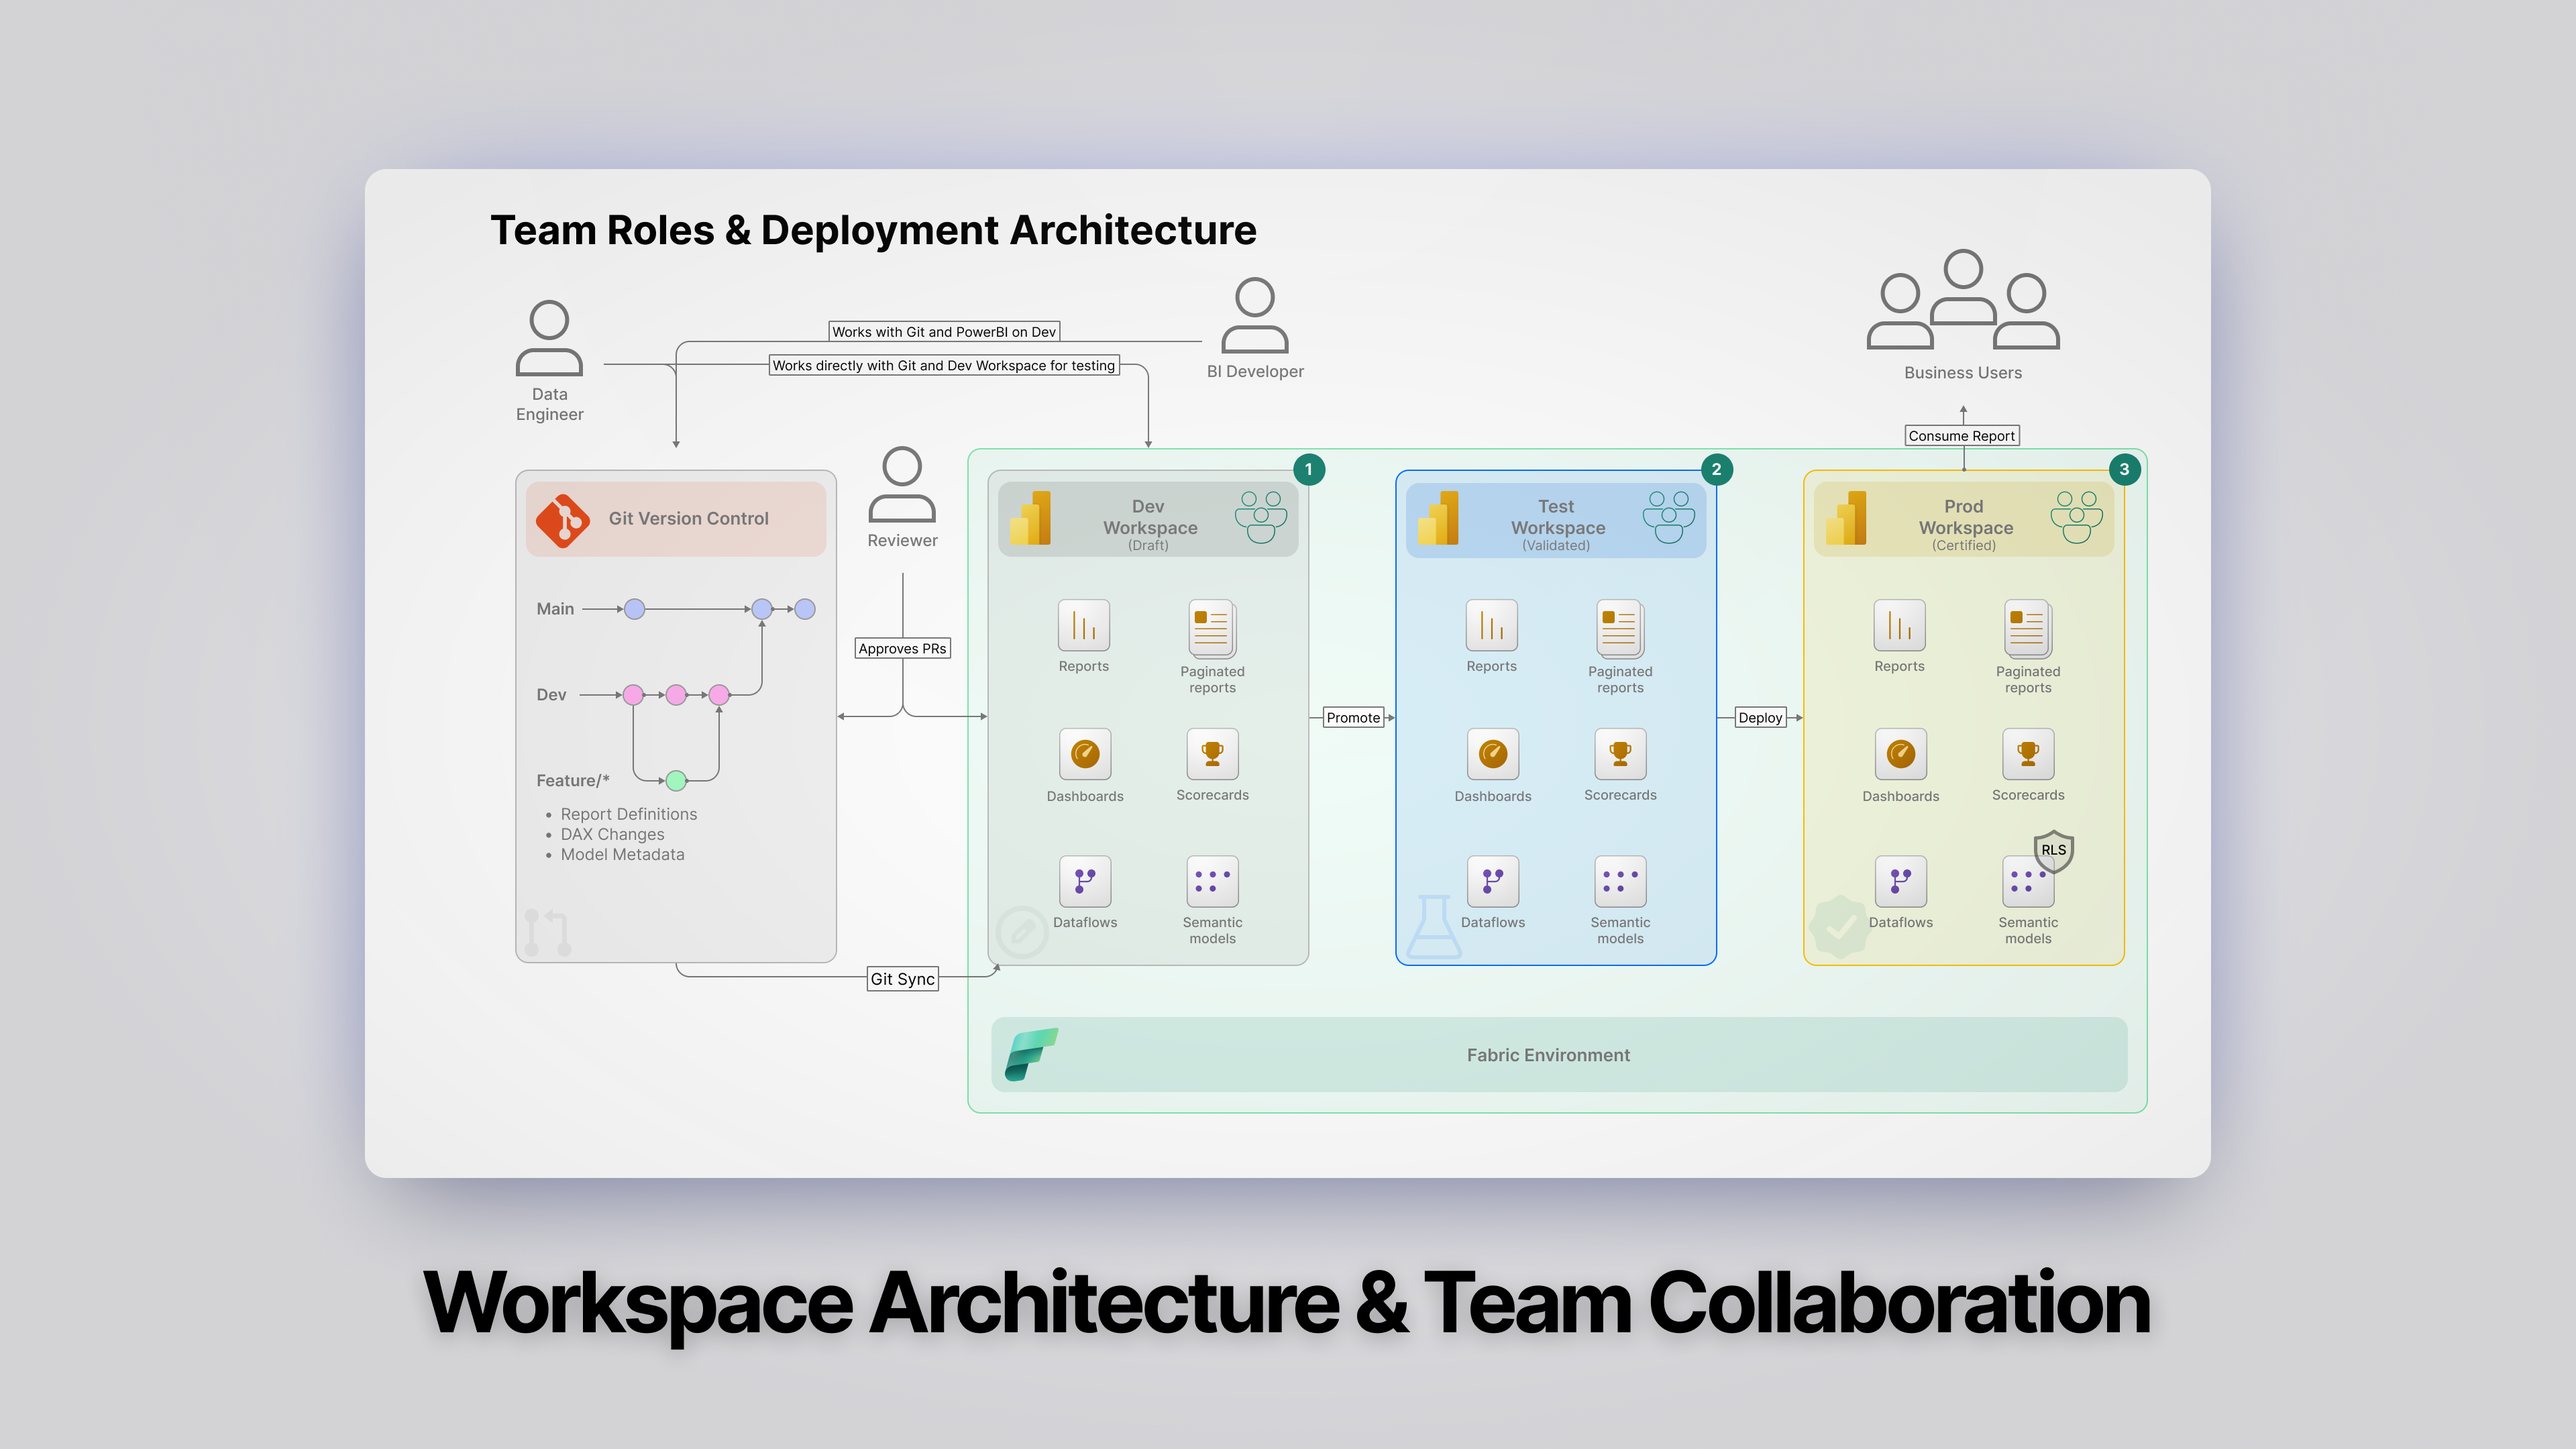
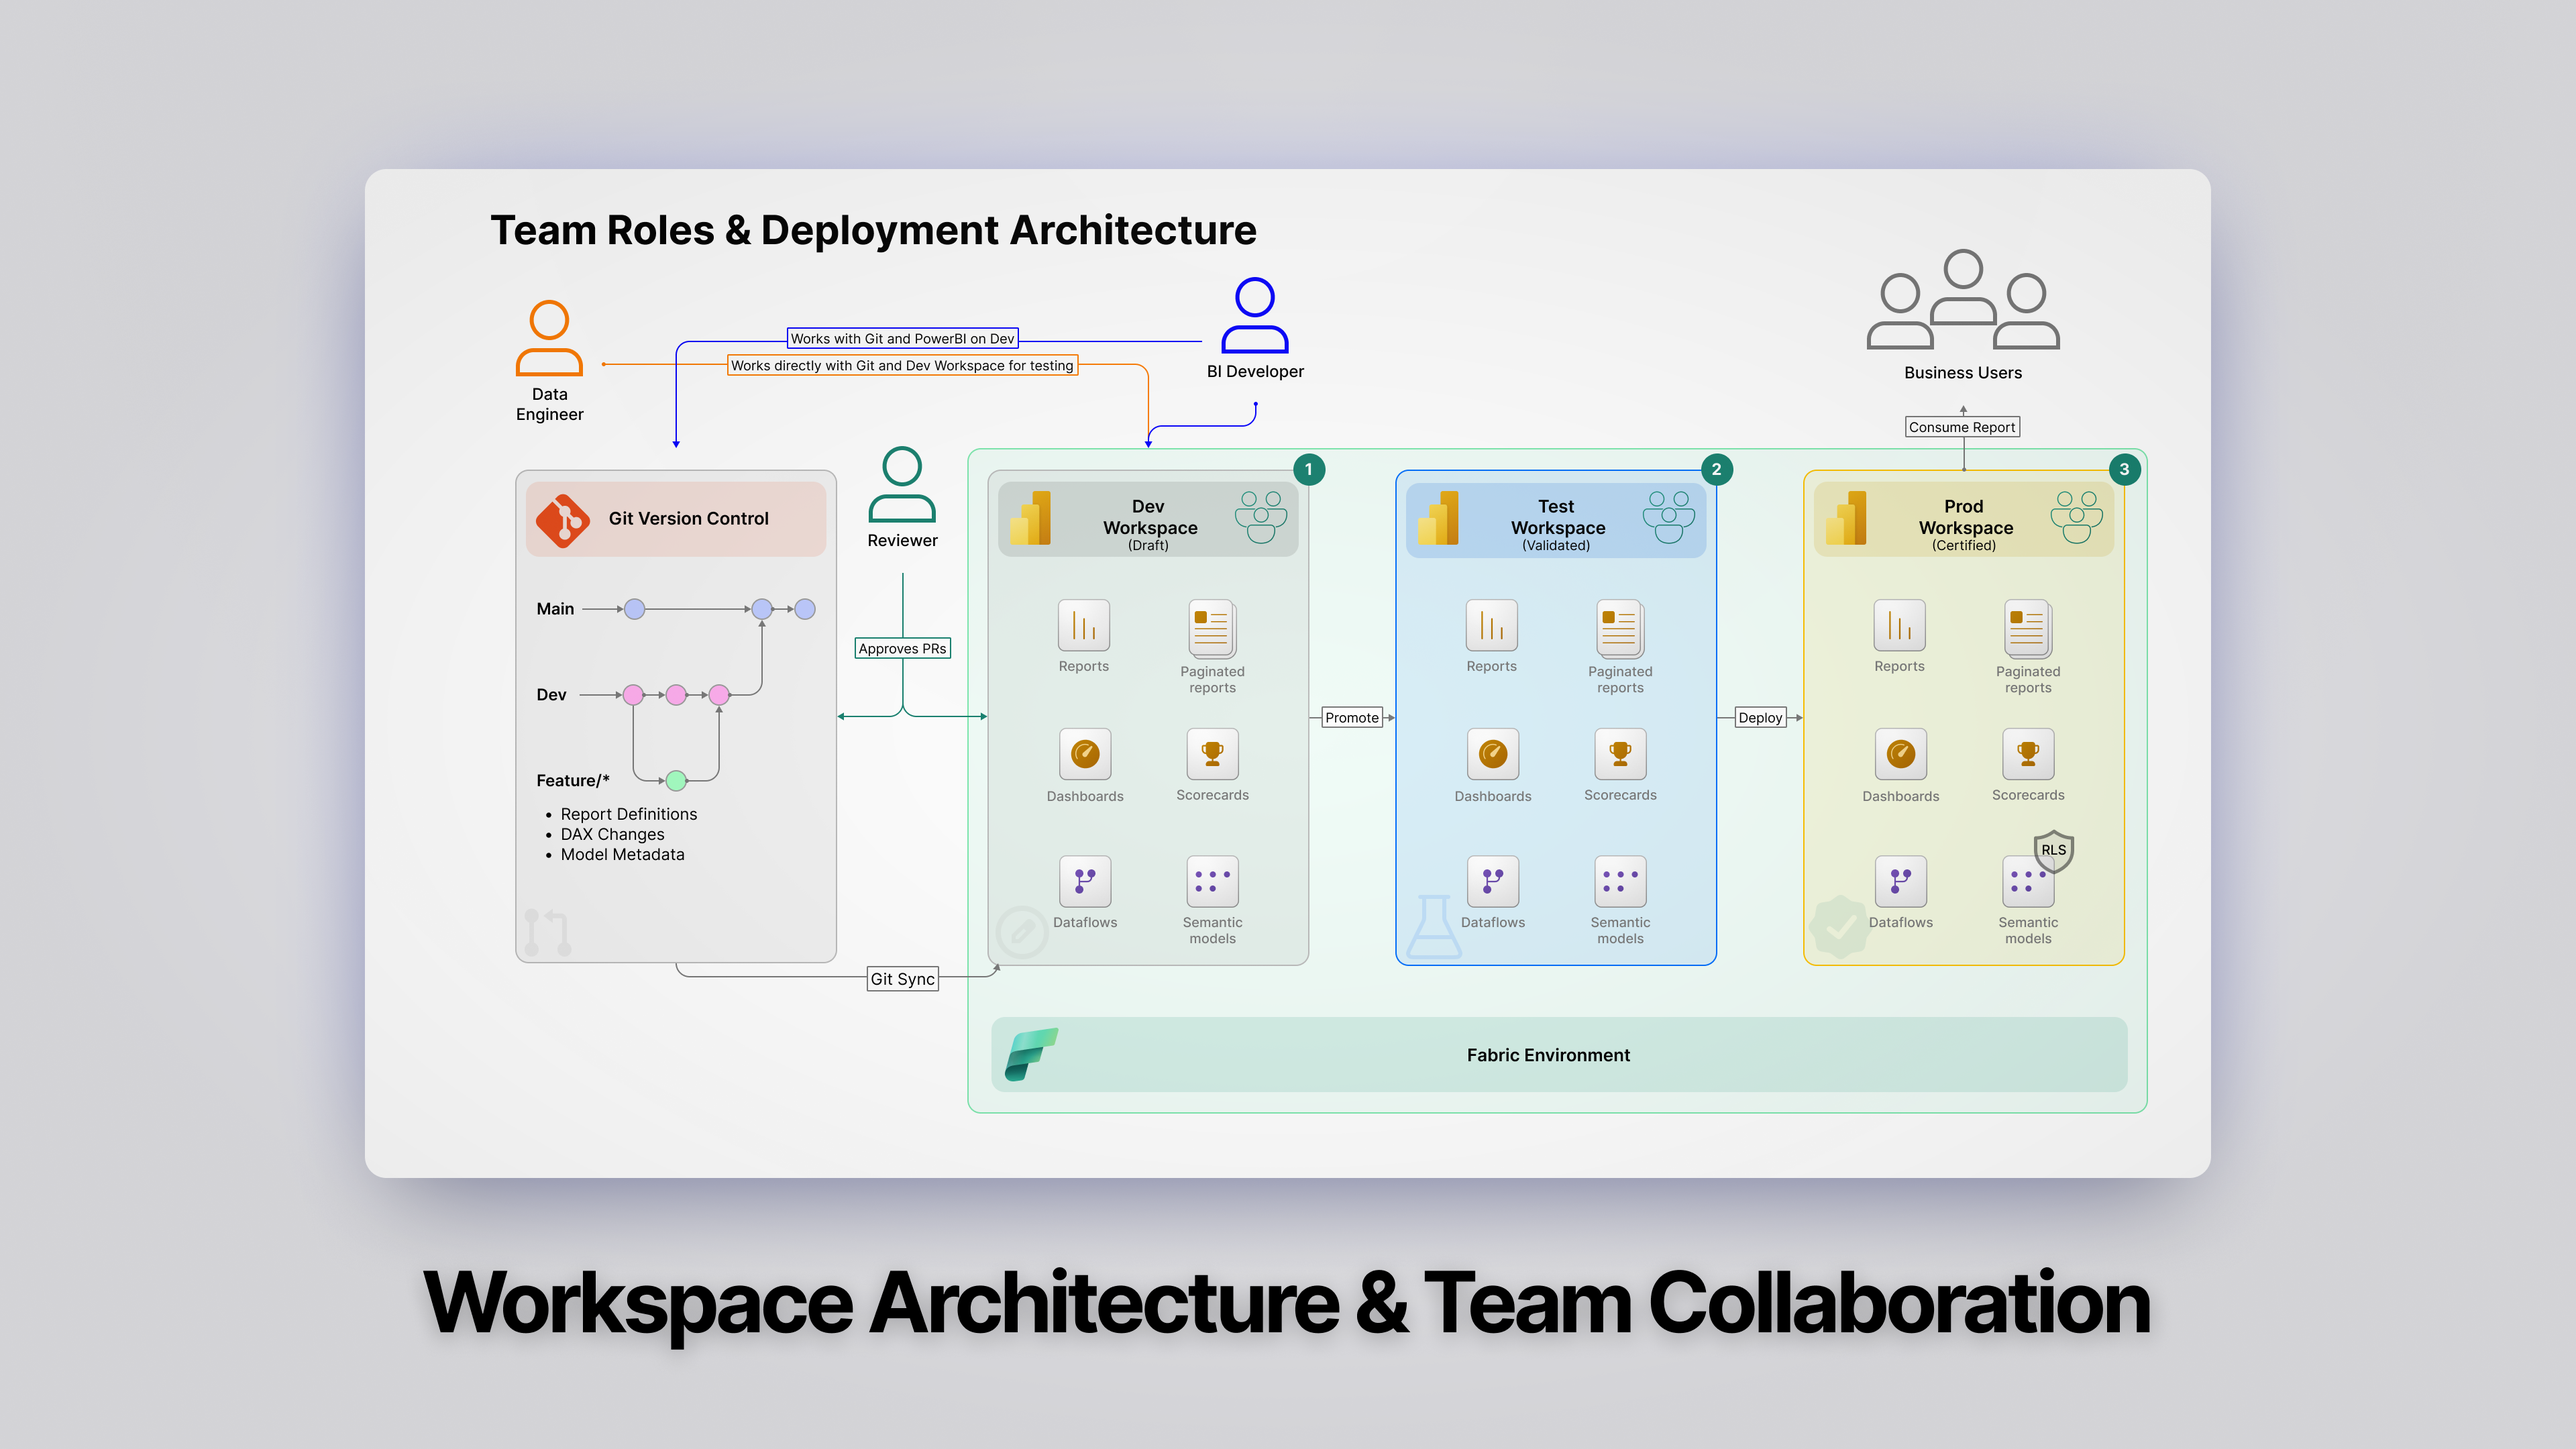
added new high level architecture diagram png and refined existing pngs + added high level pipeline description in README

diff --git a/README.md b/README.md
@@ -7,6 +7,15 @@
 ## 1. Project Overview
 This project acts as the "Single Source of Truth" for Vantage Alpin's financial reporting. It replaces legacy PDF reports with a dynamic Modern Data Stack (MDS). By simulating a realistic e-commerce environment, transforming raw stochastic data into a clean Star Schema, and serving it via a robust dimensional model, it delivers a highly scalable and interactive Business Intelligence experience.
 
+![Vantage Dashboard High Level](vantage-rebuild/viz/vantage_dashboard_high_level.png)
+
+The pipeline handles the end-to-end process from stochastically simulated data to dimensional data warehousing and BI reporting, consisting of four main phases:
+
+(1) Synthetic Data generation in Python 
+(2) Data Storage and Warehousing using DuckDB 
+(3) Data Transformations using dbt and 
+(4) Reporting using Power BI.
+
 ## 2. Business Intelligence (Power BI)
 
 ### Dashboard Overview
